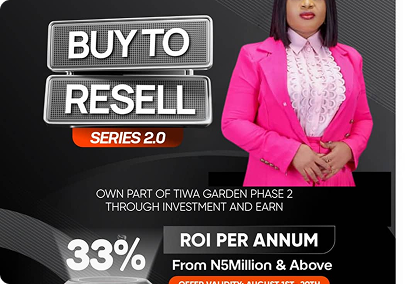
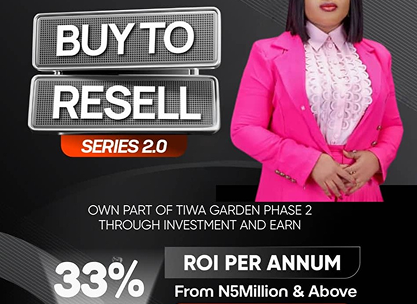
updated advert image; remove advertisement text

diff --git a/client/src/components/events/PlaceAdvert.jsx b/client/src/components/events/PlaceAdvert.jsx
@@ -1,14 +1,12 @@
 import React from "react";
-import Button from "../widgets/Button";
 import StyledImage from "../StyledImage";
 
 const PlaceAdvert = () => {
   return (
     <div className="bg-neutrals100/50 p-5 rounded-[10px] space-y-5">
       <div className="w-full max-w-[417px] aspect-video h-[284px]">
-        <StyledImage src="/img/ads-image.png" className="h-full object-cover" />
+        <StyledImage src="/img/ads-image.png" className="w-full h-full object-cover" />
       </div>
-      <p className="text-[14px] leading-[16px] !mt-1 text-center">Advertisement</p>
     </div>
   );
 };

diff --git a/client/src/pages/users/tickets.js b/client/src/pages/users/tickets.js
@@ -32,8 +32,9 @@ const tickets = () => {
     <PrivateRoute>
       <Layout isHeader={false} container="px-5 max-w-[1512px]">
         <p className="text-[17px] sm:text-[20px] font-semibold leading-normal">
-          My Tickets
+          Latest Ticket
         </p>
+        <p className="text-[14px] sm:text-[16px] text-baseBlack">Your most recent account ticket</p>
         <div className="space-y-10 py-10">
           {tickets?.length > 0 &&
             tickets?.map(({ transaction, eventName }, index) => (
